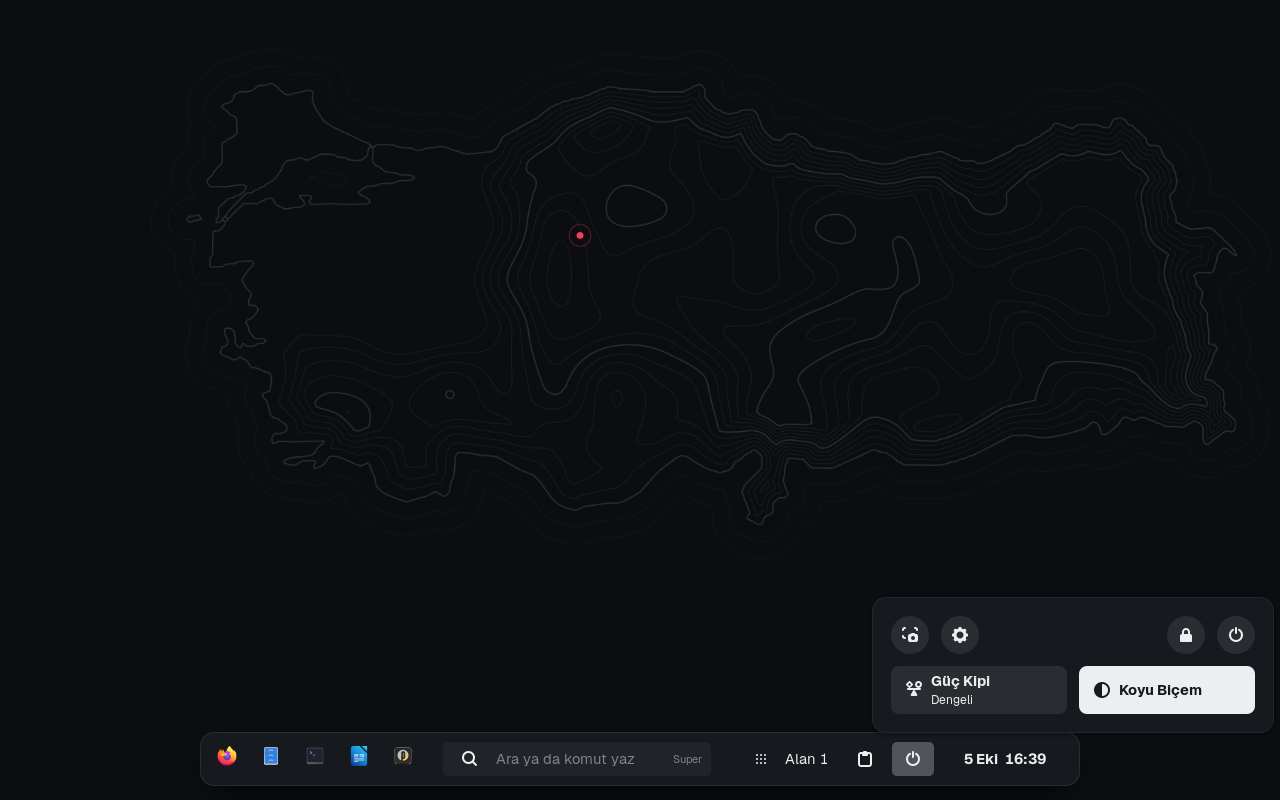
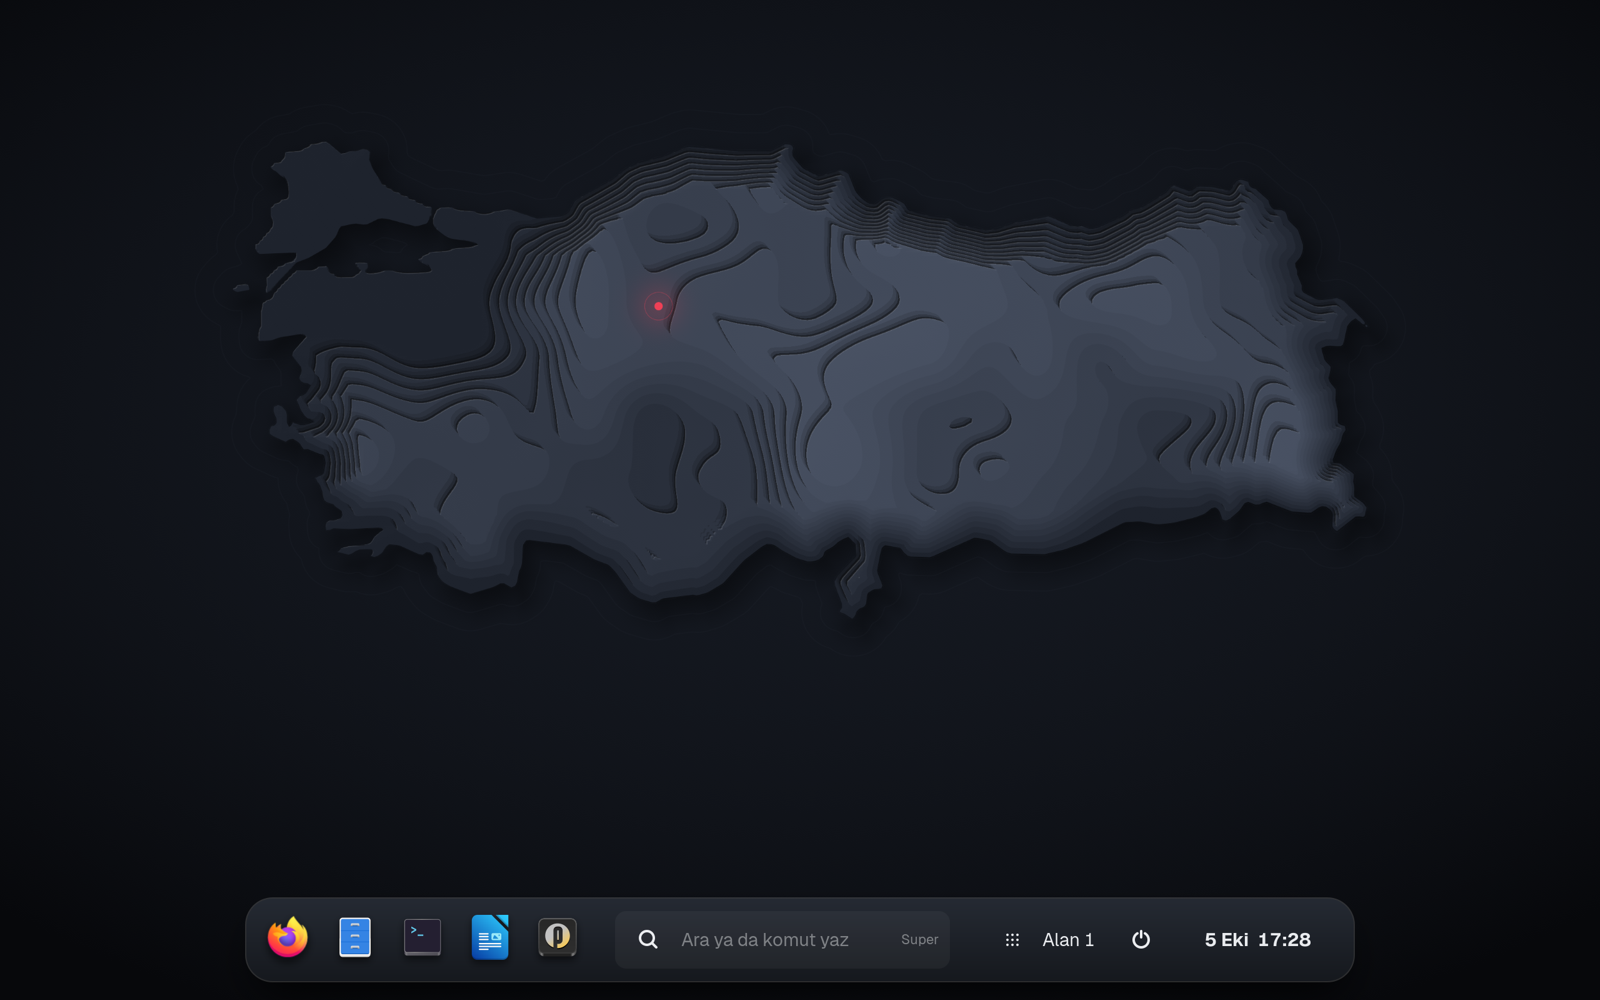
Give the island, menus and wallpaper depth
The wallpaper is now a raster relief: each contour level is a sheet lit
from the top left that casts a soft shadow, and the landmass floats over
the sea. It is generated deterministically by tools/wallpaper and kept
clear of the sides that zoom trims on 16:10 screens. PNG needs no SVG
loader, so librsvg2-common is no longer a dependency.

The island, Komut and menus share one lit surface with a lighter top
edge. Dock icons grow to 36px, cast a shadow, lift on hover and bounce
once when an app starts.

Changed region(s): [[0.1562, 0.125, 0.875, 0.625], [0.1562, 0.75, 1.0, 0.9688]]

diff --git a/shell/data/theme/gnome-shell-sass/widgets/_vatan-ada.scss b/shell/data/theme/gnome-shell-sass/widgets/_vatan-ada.scss
@@ -2,27 +2,41 @@
 // The bottom island that replaces the top bar. Imported after _panel.scss so
 // these rules win over the upstream top bar styling.
 
-$ada_radius: 14px;
-$ada_control_radius: 8px;
+$ada_radius: 22px;
+$ada_control_radius: 12px;
 $ada_screen_gap: 14px;
 // Gap between maximized windows and the island; part of the panel box so
 // the bottom strut includes it.
 $ada_window_gap: 10px;
-$ada_shadow_color: if($variant == 'light', rgba(20, 24, 31, .28), rgba(0, 0, 0, .6));
+$ada_shadow_color: if($variant == 'light', rgba(20, 24, 31, .3), rgba(0, 0, 0, .75));
+// The surfaces are lit from above like the wallpaper relief: a lighter top
+// edge and a top-to-bottom falloff read as a slab, not a flat strip.
+$ada_surface_top: if($variant == 'light', #ffffff, #252a33);
+$ada_surface_bottom: if($variant == 'light', #eef0f3, #15181d);
+$ada_edge_color: if($variant == 'light', rgba(20, 24, 31, .1), rgba(255, 255, 255, .06));
+$ada_lit_edge_color: if($variant == 'light', #ffffff, rgba(255, 255, 255, .16));
+
+@mixin ada_surface() {
+  border: 1px solid $ada_edge_color;
+  border-top-color: $ada_lit_edge_color;
+  background-gradient-direction: vertical;
+  background-gradient-start: $ada_surface_top;
+  background-gradient-end: $ada_surface_bottom;
+  // A blur above 32px drew as an unblurred rectangle at 2x scale.
+  box-shadow: 0 16px 32px -10px $ada_shadow_color;
+}
 
 #panelBox {
   background-color: transparent;
 }
 
 #panel {
-  height: 40px;
-  padding: 6px;
+  height: 52px;
+  padding: 7px;
   margin-top: $ada_window_gap;
   margin-bottom: $ada_screen_gap;
-  border: 1px solid $borders_color;
   border-radius: $ada_radius;
-  background-color: $panel_bg_color;
-  box-shadow: 0 12px 32px -10px $ada_shadow_color;
+  @include ada_surface();
   font-weight: normal;
 
   .panel-button {
@@ -35,7 +49,7 @@ $ada_shadow_color: if($variant == 'light', rgba(20, 24, 31, .28), rgba(0, 0, 0, 
   &:overview,
   &.unlock-screen,
   &.login-screen {
-    background-color: $panel_bg_color;
+    @include ada_surface();
 
     .panel-button {
       @include panel_button();
@@ -56,8 +70,10 @@ $ada_shadow_color: if($variant == 'light', rgba(20, 24, 31, .28), rgba(0, 0, 0, 
   // translucent system surface with the always-light lock text instead.
   &.unlock-screen,
   &.login-screen {
+    background-gradient-direction: none;
     background-color: transparentize($system_base_color, .35);
     border-color: transparentize($system_fg_color, .9);
+    border-top-color: transparentize($system_fg_color, .8);
 
     .panel-button {
       @include panel_button($fg: $transparent_panel_fg_color);
@@ -123,25 +139,30 @@ $ada_shadow_color: if($variant == 'light', rgba(20, 24, 31, .28), rgba(0, 0, 0, 
 }
 
 .vatan-dock {
-  spacing: 4px;
+  spacing: 2px;
 }
 
+// Icons sit on the slab and cast their own shadow; hover lifts them (dock.js)
+// instead of painting a highlight box behind them.
 .vatan-dock-item {
-  width: 40px;
-  height: 40px;
+  width: 52px;
+  height: 52px;
   border-radius: $ada_control_radius;
 
-  &:hover,
+  StIcon {
+    icon-shadow: 0 3px 6px if($variant == 'light', rgba(20, 24, 31, .25), rgba(0, 0, 0, .5));
+  }
+
   &:focus {
     background-color: $hover_bg_color;
   }
 
   // Fixed width; dock.js scales it in x because St does not tween width.
   .vatan-dock-indicator {
-    height: 2px;
+    height: 4px;
     width: 14px;
-    margin-bottom: 3px;
-    border-radius: 1px;
+    margin-bottom: 0;
+    border-radius: 2px;
     background-color: -st-accent-color;
   }
 }
@@ -170,4 +191,22 @@ $ada_shadow_color: if($variant == 'light', rgba(20, 24, 31, .28), rgba(0, 0, 0, 
 
 .vatan-workspace-box {
   spacing: 6px;
+}
+
+// Menus grow out of the island, so they are the same lit slab and keep a
+// clear gap above it instead of sitting on its edge.
+// The rise counts from the button, which sits 8px inside the island.
+.popup-menu-boxpointer {
+  -arrow-rise: 8px + $ada_window_gap;
+}
+
+.popup-menu-content,
+.quick-settings {
+  border-radius: $ada_radius;
+  @include ada_surface();
+  // Inside a boxpointer a gradient turns the shadow into a hard rectangle,
+  // and a deep shadow is clipped a few pixels out; flat and shallow it is.
+  background-gradient-direction: none;
+  background-color: mix($ada_surface_top, $ada_surface_bottom, 50%);
+  box-shadow: 0 2px 8px -4px $ada_shadow_color;
 }

diff --git a/shell/js/ui/vatan/dock.js b/shell/js/ui/vatan/dock.js
@@ -8,8 +8,15 @@ import * as AppFavorites from '../appFavorites.js';
 import * as PanelMenu from '../panelMenu.js';
 
 const MAX_DOCK_ITEMS = 8;
-const DOCK_ICON_SIZE = 20;
+const DOCK_ICON_SIZE = 36;
 const INDICATOR_EASE_MS = 300;
+// Hover lifts the icon off the slab rather than scaling it: a scaled icon
+// texture goes soft, a translated one stays pixel sharp.
+const LIFT_PX = 5;
+const LIFT_EASE_MS = 220;
+const BOUNCE_PX = 14;
+const BOUNCE_UP_MS = 180;
+const BOUNCE_DOWN_MS = 520;
 // St does not tween width, so the indicator is a fixed 14px bar scaled in x.
 const INDICATOR_SCALE_RUNNING = 4 / 14;
 
@@ -72,12 +79,13 @@ class VatanDock extends PanelMenu.Button {
             scale_x: 0,
         });
 
-        const column = new St.BoxLayout({vertical: true});
-        column.add_child(new St.Bin({
+        const iconBin = new St.Bin({
             x_align: Clutter.ActorAlign.CENTER,
             y_expand: true,
             child: app.create_icon_texture(DOCK_ICON_SIZE),
-        }));
+        });
+        const column = new St.BoxLayout({vertical: true});
+        column.add_child(iconBin);
         column.add_child(indicator);
 
         const item = new St.Button({
@@ -87,8 +95,40 @@ class VatanDock extends PanelMenu.Button {
             child: column,
         });
         item._indicator = indicator;
-        item.connect('clicked', () => this._activate(app));
+        item._iconBin = iconBin;
+        item.connect('notify::hover', () => this._lift(item));
+        item.connect('clicked', () => this._activate(app, item));
         return item;
+    }
+
+    _lift(item) {
+        if (item._bouncing)
+            return;
+        item._iconBin.ease({
+            translation_y: item.hover ? -LIFT_PX : 0,
+            duration: LIFT_EASE_MS,
+            mode: item.hover
+                ? Clutter.AnimationMode.EASE_OUT_BACK
+                : Clutter.AnimationMode.EASE_OUT_QUAD,
+        });
+    }
+
+    _bounce(item) {
+        item._bouncing = true;
+        const bin = item._iconBin;
+        bin.ease({
+            translation_y: -BOUNCE_PX,
+            duration: BOUNCE_UP_MS,
+            mode: Clutter.AnimationMode.EASE_OUT_QUAD,
+            onComplete: () => bin.ease({
+                translation_y: item.hover ? -LIFT_PX : 0,
+                duration: BOUNCE_DOWN_MS,
+                mode: Clutter.AnimationMode.EASE_OUT_BOUNCE,
+                onStopped: () => {
+                    item._bouncing = false;
+                },
+            }),
+        });
     }
 
     _updateState(app, item) {
@@ -118,7 +158,10 @@ class VatanDock extends PanelMenu.Button {
         });
     }
 
-    _activate(app) {
+    _activate(app, item) {
+        if (app.state === Shell.AppState.STOPPED)
+            this._bounce(item);
+
         const workspace = global.workspace_manager.get_active_workspace();
         const windows = app.get_windows()
             .filter(win => win.located_on_workspace(workspace));

diff --git a/shell/data/theme/gnome-shell-sass/widgets/_vatan-komut.scss b/shell/data/theme/gnome-shell-sass/widgets/_vatan-komut.scss
@@ -4,15 +4,14 @@
 
 $komut_row_height: 48px;
 $komut_visible_rows: 7;
-$komut_shadow_color: if($variant == 'light', rgba(20, 24, 31, .28), rgba(0, 0, 0, .6));
-
 .vatan-komut {
-  padding: 8px;
-  border: 1px solid $borders_color;
-  border-radius: 14px;
-  background-color: $panel_bg_color;
+  padding: 10px;
+  border-radius: $ada_radius;
+  @include ada_surface();
+  // With a gradient St draws this tall surface's shadow as a hard rectangle.
+  background-gradient-direction: none;
+  background-color: mix($ada_surface_top, $ada_surface_bottom, 50%);
   color: $panel_fg_color;
-  box-shadow: 0 12px 32px -10px $komut_shadow_color;
 }
 
 .vatan-komut-content {
@@ -27,7 +26,7 @@ $komut_shadow_color: if($variant == 'light', rgba(20, 24, 31, .28), rgba(0, 0, 0
   min-height: 34px;
   padding: 8px 12px;
   border: none;
-  border-radius: 8px;
+  border-radius: $ada_control_radius;
   background-color: transparent;
   box-shadow: none;
   color: $fg_color;
@@ -60,7 +59,7 @@ $komut_shadow_color: if($variant == 'light', rgba(20, 24, 31, .28), rgba(0, 0, 0
   min-height: $komut_row_height;
   // Two-line rows (title plus description) need air above and below.
   padding: 6px 10px;
-  border-radius: 8px;
+  border-radius: $ada_control_radius;
 
   StBoxLayout {
     spacing: 12px;
@@ -77,9 +76,9 @@ $komut_shadow_color: if($variant == 'light', rgba(20, 24, 31, .28), rgba(0, 0, 0
 }
 
 .vatan-komut-row-icon {
-  width: 30px;
-  height: 30px;
-  border-radius: 8px;
+  width: 32px;
+  height: 32px;
+  border-radius: 9px;
   background-color: transparentize($fg_color, .95);
 }
 

diff --git a/shell/js/ui/vatan/komut.js b/shell/js/ui/vatan/komut.js
@@ -20,7 +20,7 @@ const MORPH_TIME = 460;
 const RESIZE_TIME = 200;
 const PANEL_FADE_TIME = 150;
 const SEARCH_DEBOUNCE_MS = 120;
-const ICON_SIZE = 16;
+const ICON_SIZE = 22;
 const ENTRY_ICON_SIZE = 18;
 
 const MAX_ACTION_RESULTS = 5;

diff --git a/README.md b/README.md
@@ -9,9 +9,9 @@ Pardus 25 için masaüstü oturumu. Üst bar yerine ekranın altında tek bir ad
 | ![Komut](docs/ekran/komut.png) | ![Karanlık](docs/ekran/karanlik.png) | ![Kilit](docs/ekran/kilit.png) |
 
 - **Komut** — `Super` ile açılır. Uygulama, dosya, ayar ve hesap makinesi sonuçlarının yanında Türkçe eylemleri anlar: `karanlık`, `odak`, `gece ışığı`, `parlaklık 40`, `ses 30`, `yan yana diz`, `kilitle`.
-- **Ada** — sık kullanılan ve çalışan uygulamalar, alan düğmesi, hızlı ayarlar ve saat tek yerde. Menüler ve bildirimler adanın üstünde açılır.
+- **Ada** — sık kullanılan ve çalışan uygulamalar, alan düğmesi, hızlı ayarlar ve saat tek yerde. Üstten ışık alan bir yüzey: ikonlar üzerine gelince yükselir, açılan uygulama zıplar. Menüler ve bildirimler adanın üstünde açılır.
 - **Yerleştirme** — pencereyi ekran kenarına sürükle: yarım ekran; üst kenara: tam ekran.
-- **Görünüm** — Geist ve Instrument Serif yazı tipleri, açık ve koyu Türkiye kontur haritası duvar kağıdı, Al vurgu rengi.
+- **Görünüm** — Geist ve Instrument Serif yazı tipleri, kat kat yükselen kabartma Türkiye haritası duvar kağıdı (açık ve koyu), Al vurgu rengi. Giriş doğrudan masaüstüne açılır.
 
 ## Kurulum
 

diff --git a/docs/surum-notlari/v0.1.0.md b/docs/surum-notlari/v0.1.0.md
@@ -10,11 +10,11 @@ Oturumu kapat, giriş ekranındaki dişli menüsünden **VATAN**'ı seç.
 
 **Bu sürümde**
 
-- Ekranın altında ada: uygulamalar, Komut, alan düğmesi, hızlı ayarlar, saat. Menüler, bildirimler ve ses/parlaklık göstergesi adanın üstünde açılır.
+- Ekranın altında ada: uygulamalar, Komut, alan düğmesi, hızlı ayarlar, saat. Üzerine gelinen ikon yükselir, açılan uygulama zıplar. Menüler, bildirimler ve ses/parlaklık göstergesi adanın üstünde açılır.
 - Komut (`Super`): uygulama, dosya, ayar, hesap makinesi ve Türkçe eylemler (`karanlık`, `odak`, `gece ışığı`, `parlaklık 40`, `ses 30`, `yan yana diz`, `kilitle`, vurgu rengi).
 - Kenara sürükleyerek pencere yerleştirme, vurgu renginde önizleme.
 - Kilit ekranında sol altta büyük saat; arka plan karartılır, bulanıklaştırılmaz.
-- Geist ve Instrument Serif yazı tipleri, açık ve koyu Türkiye kontur haritası duvar kağıdı, Al vurgu rengi.
+- Geist ve Instrument Serif yazı tipleri, kat kat yükselen kabartma Türkiye haritası duvar kağıdı (açık ve koyu), Al vurgu rengi.
 
 **Bilinen sınırlar**
 
